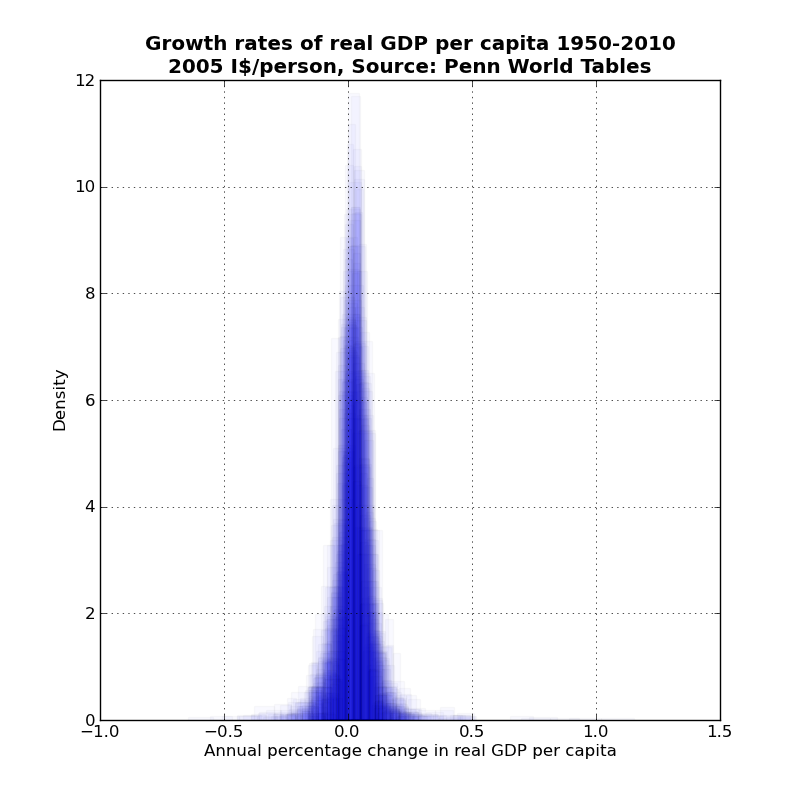
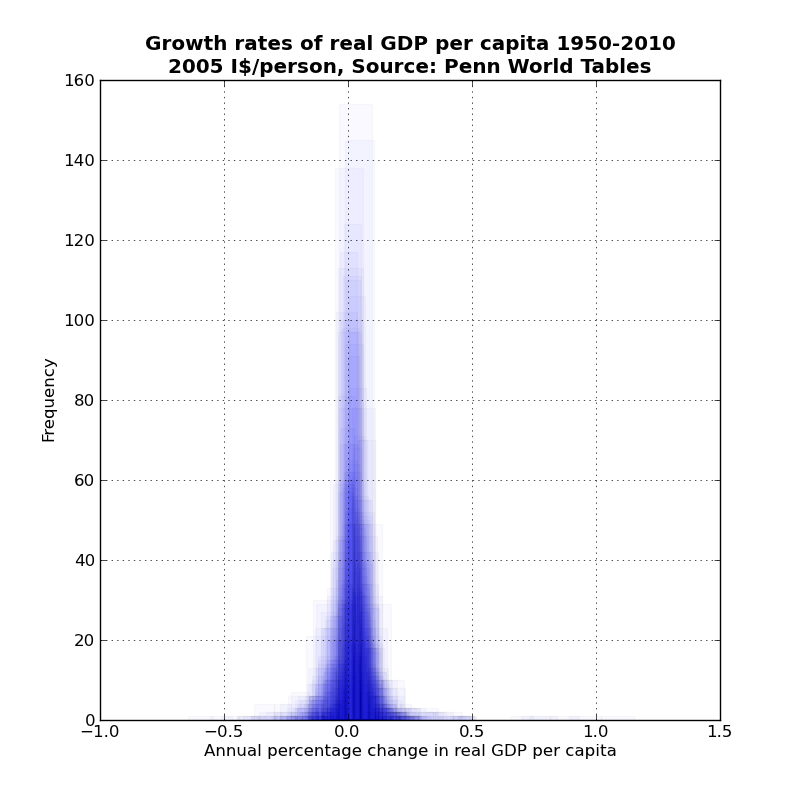
Changed from normed to frequency.

diff --git a/sandbox/pwt.py b/sandbox/pwt.py
@@ -64,9 +64,9 @@ pwt = get_data_pwt()
 # plot some data
 plt.figure(figsize=(8,8))
 for yr in xrange(1951, 2011):
-    pwt['rgdpch'].pct_change().xs(yr).hist(color='blue', normed=True, alpha=0.025)
+    pwt['rgdpch'].pct_change().xs(yr).hist(color='blue', normed=False, alpha=0.025)
 plt.xlabel('Annual percentage change in real GDP per capita')
-plt.ylabel('Density')
+plt.ylabel('Frequency')
 plt.title('Growth rates of real GDP per capita 1950-2010\n2005 I$/person, Source: Penn World Tables', weight='bold') 
 plt.savefig('Histogram-historical-growth-rates-RGDPPC.png')
 
